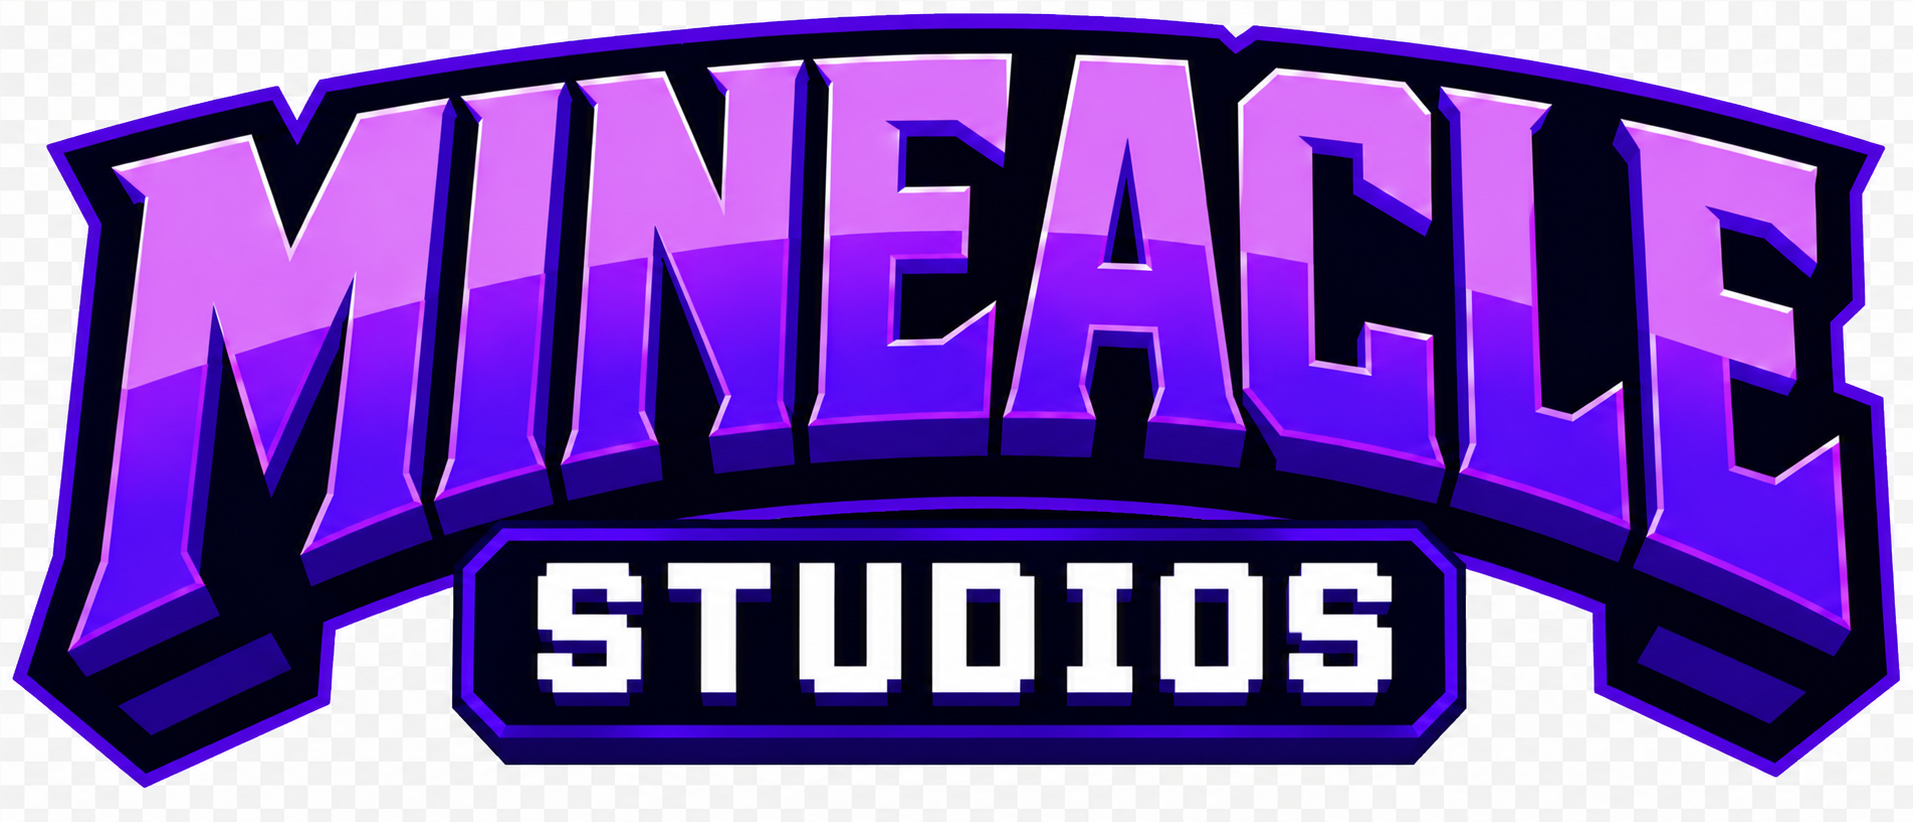
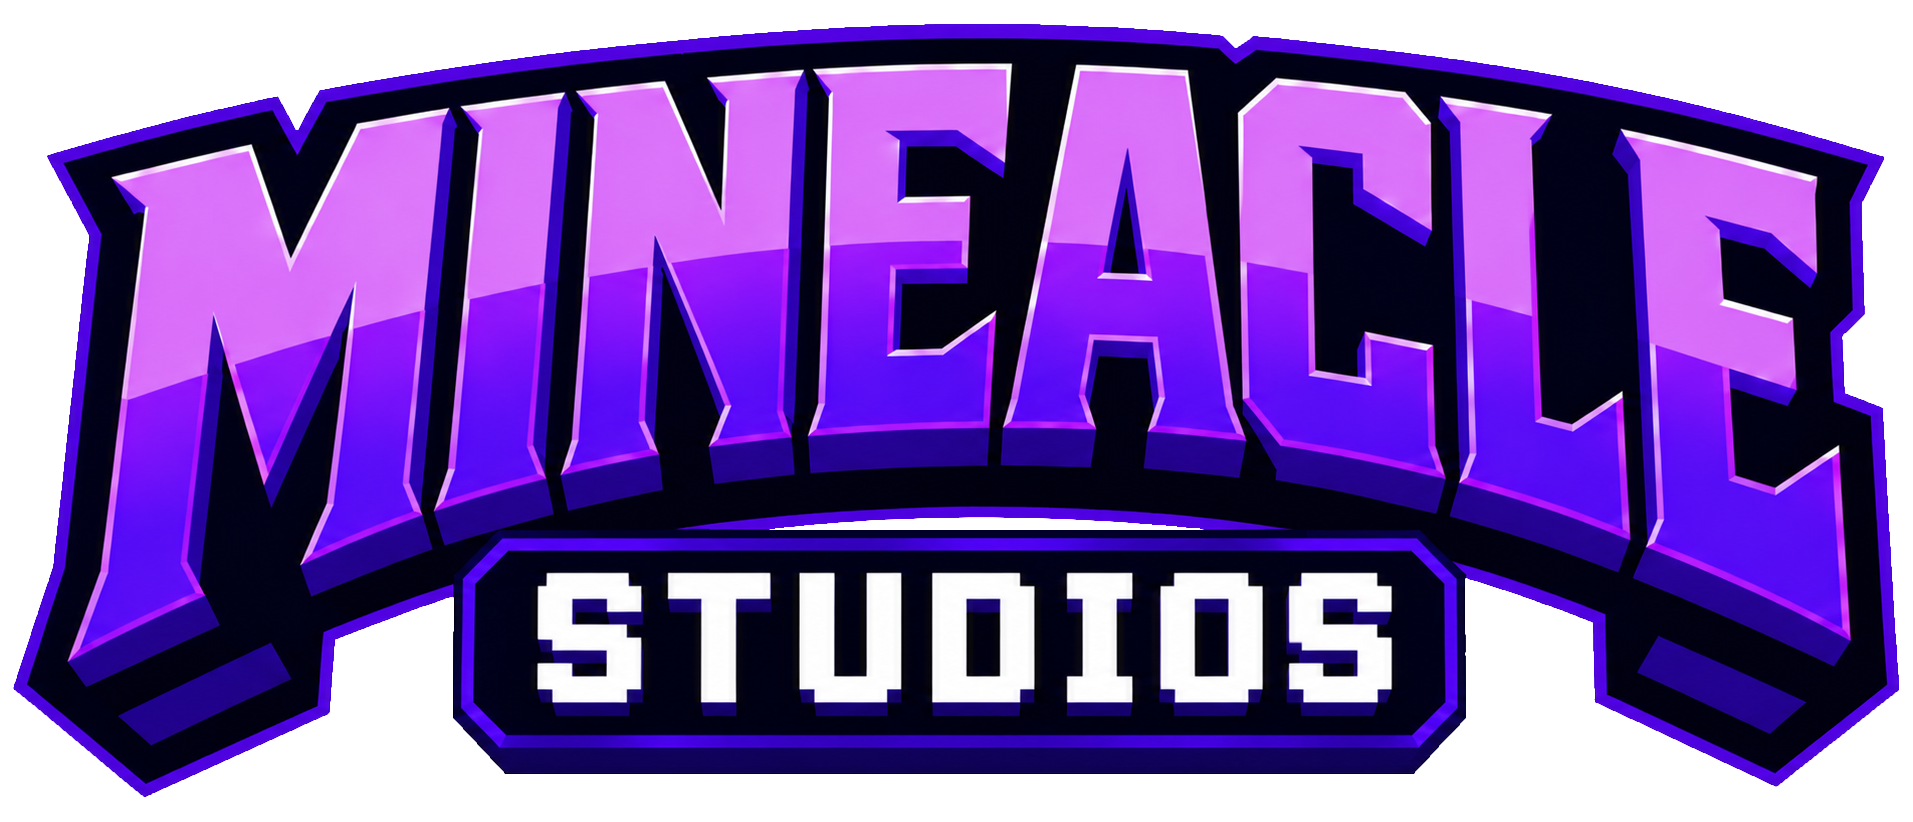
7/8 1.0.52

diff --git a/app/assets/home-page.css b/app/assets/home-page.css
@@ -1520,23 +1520,25 @@ body.has-announcement-modal {
 }
 
 .footer-brand {
-  width: min(100%, 280px);
-  max-width: 100%;
+  width: min(100%, 224px);
+  max-width: 224px;
   display: inline-flex;
+  justify-self: start;
   line-height: 0;
 }
 
 .footer-brand img {
   width: 100%;
+  height: auto;
   display: block;
   object-fit: contain;
-  filter: grayscale(0) saturate(1) brightness(1) drop-shadow(0 12px 22px rgba(0, 0, 0, 0.34));
-  transition: filter 520ms cubic-bezier(0.22, 1, 0.36, 1), opacity 520ms cubic-bezier(0.22, 1, 0.36, 1);
+  filter: grayscale(1) saturate(0.08) brightness(1.08) contrast(1.04) drop-shadow(0 12px 22px rgba(0, 0, 0, 0.34));
+  transition: filter 250ms cubic-bezier(0.22, 1, 0.36, 1), opacity 250ms cubic-bezier(0.22, 1, 0.36, 1);
 }
 
 .footer-brand:hover img,
 .footer-brand:focus-within img {
-  filter: grayscale(1) saturate(0.08) brightness(1.08) contrast(1.04) drop-shadow(0 12px 22px rgba(0, 0, 0, 0.34));
+  filter: grayscale(0) saturate(1) brightness(1) contrast(1) drop-shadow(0 12px 22px rgba(0, 0, 0, 0.34));
 }
 
 .footer-about p {
@@ -3049,7 +3051,7 @@ a[aria-label="Discord"]:focus-visible .site-icon {
   }
 
   .footer-brand img {
-    width: min(82vw, 300px);
+    width: min(82vw, 224px);
   }
 }
 

diff --git a/app/includes/layout.php b/app/includes/layout.php
@@ -6,7 +6,7 @@ require_once __DIR__ . '/db.php';
 
 function mineacle_page_asset_version(): string
 {
-    return 'base84';
+    return 'base86';
 }
 
 function mineacle_page_public_link(mixed $url): string
@@ -92,9 +92,10 @@ function mineacle_page_leaderboards_url(array $site = []): string
 
 function mineacle_page_icon(string $name): string
 {
+    $assetVersion = rawurlencode(mineacle_page_asset_version());
     $officialIcons = [
         'home' => '/assets/icons/home.svg',
-        'stats' => '/assets/icons/leaderboard.svg',
+        'stats' => '/assets/icons/leaderboard.svg?v=' . $assetVersion,
         'store' => '/assets/icons/basket-shopping.svg',
         'bans' => '/assets/icons/gavel.svg',
         'discord' => '/assets/icons/discord.svg',
@@ -142,6 +143,8 @@ function mineacle_page_search_header(array $site): void
 function mineacle_page_footer(array $site): void
 {
     $year = date('Y');
+    $assetVersion = mineacle_page_asset_version();
+    $footerLogoUrl = '/assets/brand/mncl-studios-web.png?v=' . rawurlencode($assetVersion);
     $supportEmail = (string) ($site['support_email'] ?? '[email redacted]');
     $supportLink = trim((string) ($site['support_url'] ?? ''));
 
@@ -170,7 +173,7 @@ function mineacle_page_footer(array $site): void
     echo '<footer class="footer-panel" aria-label="Footer">';
     echo '<div class="footer-inner">';
     echo '<section class="footer-about" aria-label="Mineacle Studios">';
-    echo '<div class="footer-brand"><img src="/assets/brand/mncl-studios-web.png" alt="Mineacle Studios" draggable="false"></div>';
+    echo '<div class="footer-brand"><img src="' . h($footerLogoUrl) . '" alt="Mineacle Studios" draggable="false"></div>';
     echo '<p>Mineacle Studios is a small team of Minecraft developers building the custom systems behind the Mineacle Network. After over a year of trial, error, and refinement, we are creating a smooth, polished, community-driven survival experience while staying true to the Minecraft everyone already loves.</p>';
     echo '<div class="footer-socials" aria-label="Social links">';
     foreach ($socialLinks as $link) {

diff --git a/app/index.php b/app/index.php
@@ -13,9 +13,10 @@ $year = date('Y');
 
 function mineacle_icon(string $name): string
 {
+    $assetVersion = rawurlencode(mineacle_page_asset_version());
     $officialIcons = [
         'home' => 'assets/icons/home.svg',
-        'stats' => 'assets/icons/leaderboard.svg',
+        'stats' => 'assets/icons/leaderboard.svg?v=' . $assetVersion,
         'store' => 'assets/icons/basket-shopping.svg',
         'bans' => 'assets/icons/gavel.svg',
         'staff' => 'assets/icons/gavel.svg',
@@ -265,7 +266,7 @@ mineacle_page_head('Home');
             <div class="footer-inner">
                 <section class="footer-about" aria-label="Mineacle Studios">
                     <div class="footer-brand">
-                        <img src="assets/brand/mncl-studios-web.png" alt="Mineacle Studios">
+                        <img src="<?php echo h(mineacle_home_versioned_url('/assets/brand/mncl-studios-web.png', $heroAssetVersion)); ?>" alt="Mineacle Studios" draggable="false" loading="lazy" decoding="async">
                     </div>
                     <p>Mineacle Studios is a small team of Minecraft developers building the custom systems behind the Mineacle Network. After over a year of trial, error, and refinement, we are creating a smooth, polished, community-driven survival experience while staying true to the Minecraft everyone already loves.</p>
                     <div class="footer-socials" aria-label="Social links">